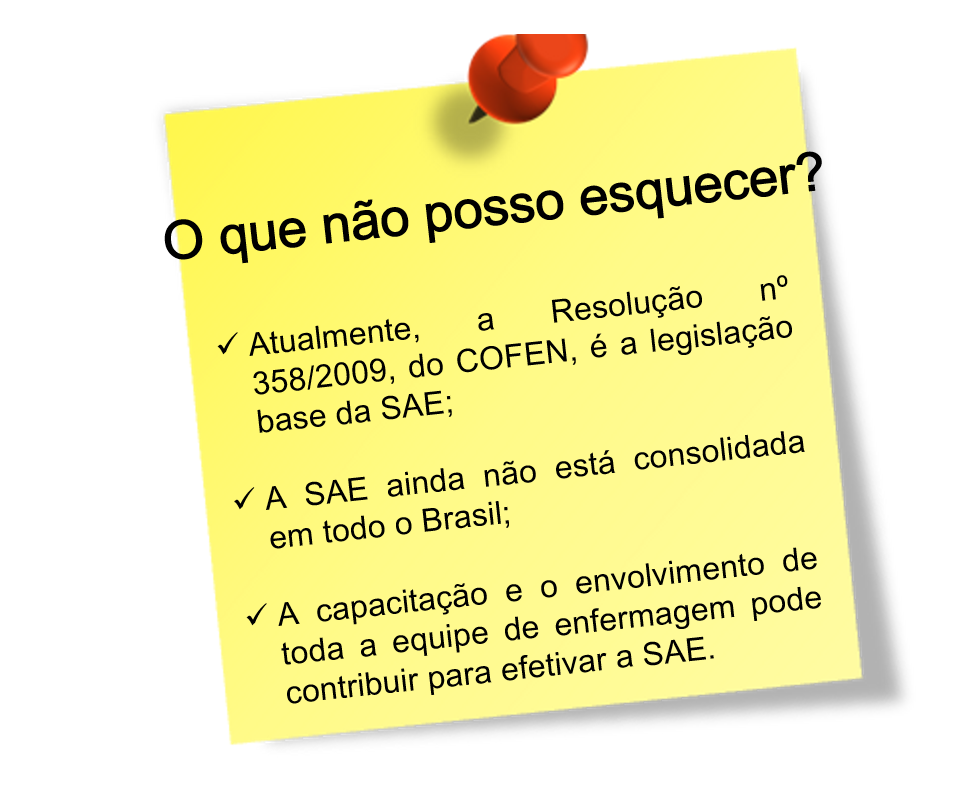
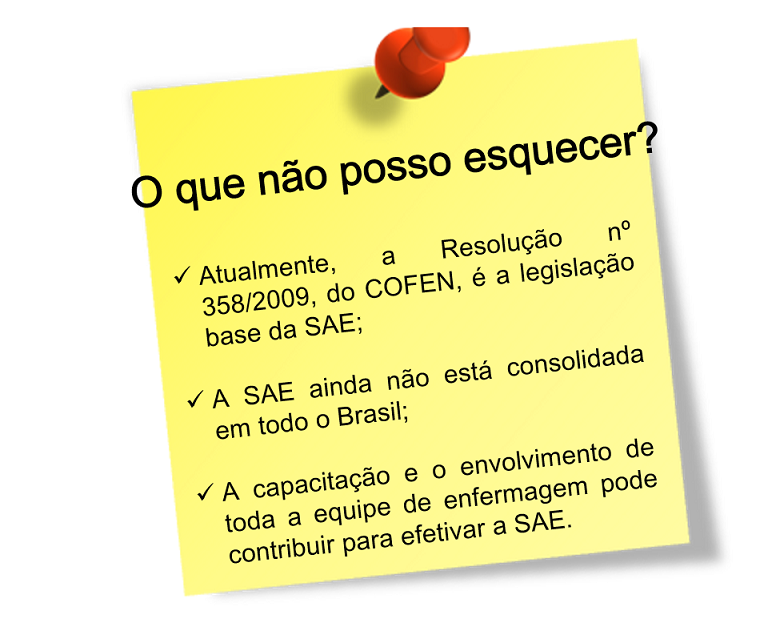
ultima versao

diff --git a/eticolegais.html b/eticolegais.html
@@ -56,7 +56,7 @@
 				<iframe width="560" height="315" src="https://www.youtube.com/embed/pp7jMDXRe2Q" frameborder="0" allowfullscreen></iframe></p>
 			</br>
 			
-			<p>Conseguiu identificar? Pois é, a SAE é reconhecida atualmente como o principal método para alcançarmos a enfermagem profissional.Conseguiu identificar? Pois é, a SAE é reconhecida atualmente como o principal método para alcançarmos a enfermagem profissional. </p>
+			<p>Conseguiu identificar? Pois é, a SAE é reconhecida atualmente como o principal método para alcançarmos a enfermagem profissional.</p>
 			<p>No contexto brasileiro, podemos referenciar alguns marcos fundamentais que contribuíram na luta para a defesa e efetivação da enfermagem enquanto ciência do cuidar, o que, vale ressaltar, constitui um processo ainda presente nos dias atuais, em que se busca, cada vez mais, subsídios que afirmem a teoria na prática cotidiana dos seus profissionais.</p>
 			<p>Inicialmente, a precursora dessa discussão no panorama brasileiro foi Wanda Aguiar Horta, na segunda metade dos anos de 1960, sendo ela a primeira enfermeira brasileira a falar de teoria no campo profissional. </p>
 			<p style="text-align:center"><a href="http://www.here.abennacional.org.br/here/n3vol2artigo1.pdf"><img style="width:700px;" src="img/lei1.png" /></a><p>
@@ -69,14 +69,14 @@
 			<p> Em 2009, o COFEN desenvolveu a Resolução nº 358, reafirmando o processo de enfermagem (PE) – discutiremos ainda a diferença entre SAE e PE – como um meio de evidenciar a contribuição da enfermagem na atenção à saúde da população, aumentando, assim, o reconhecimento profissional do enfermeiro<sup>(6)</sup>.</p>
 			<p>A Resolução nº 358 substitui a anterior e aponta, ainda, a participação do Técnico de Enfermagem na SAE, profissional que, até então, não havia sido citado diretamente nas legislações brasileiras como componente fundamental na operacionalização da SAE.		</p>
 			<p>Vamos conferir, então, um resumo das principais legislações nacionais que embasam a SAE:		</p>
-				<a href="http://www.cofen.gov.br/lei-n-749886-de-25-de-junho-de-1986_4161.html"><img src="img/lei2.png"/></a>
-				<a href="http://www.cofen.gov.br/resoluo-cofen-2722002-revogada-pela-resoluao-cofen-n-3582009_4309.html"><img src="img/lei3.png" "150px" /></a>
-				<a href="http://www.cofen.gov.br/resoluo-cofen-3582009_4384.html"><img src="img/lei4.png"  /></a>
+				<a href="http://www.cofen.gov.br/lei-n-749886-de-25-de-junho-de-1986_4161.html"><img src="img/lei2.PNG"/></a>
+				<a href="http://www.cofen.gov.br/resoluo-cofen-2722002-revogada-pela-resoluao-cofen-n-3582009_4309.html"><img src="img/lei3.PNG" "150px" /></a>
+				<a href="http://www.cofen.gov.br/resoluo-cofen-3582009_4384.html"><img src="img/lei4.PNG"  /></a>
 			
 			<p>De maneira geral, pode-se constatar que o empenho pela consolidação da enfermagem enquanto profissão de base científica vem se intensificando no decorrer da história brasileira, notadamente com a defesa de que a SAE se constitui uma estratégia ímpar para a consecução dessa premissa.	</p>
 			<p>Essa luta é decorrente de trabalhos intensos tanto do Conselho Federal de Enfermagem quanto da Associação Brasileira de Enfermagem (ABEn), que desde a sua criação está comprometida com a educação e a assistência de enfermagem.</p>
 			<p>Todavia, mesmo diante das incontestáveis vantagens trazidas pela adoção da SAE, a literatura é unânime em afirmar que sua implementação ainda se caracteriza como um desafio, destacando-se como dificuldades a serem superadas<sup>(7-15)</sup>:</p>
-			<p style="text-align:center"><img src="img/lei5.png" width="700px"  /></p>
+			<p style="text-align:center"><img src="img/lei5.PNG" width="700px"  /></p>
 			
 			<p>Além disso, merecem destaque os conflitos de conhecimento ainda vivenciados pelos profissionais de enfermagem, fragmentando assim as etapas componentes do PE e, muitas vezes, entendendo ser o registro das ações realizadas sinônimo de SAE. 		</p>
 			<img src="img/registroenfermagem.png" />

diff --git a/operacionalizacao.html b/operacionalizacao.html
@@ -39,9 +39,9 @@
 		</div>
 	
 		<div class="scroll">
-		
+		<p style="padding-left:40px;">Objetivo de aprendizagem: Apreender  a diferença entre os conceitos de SAE e de Processo de Enfermagem.</p>
 		<div class="texto">
-			<p>Objetivo de aprendizagem: Apreender  a diferença entre os conceitos de SAE e de Processo de Enfermagem.</p>
+			
 			</br>
 			<h2>Qual a diferença entre SAE e Processo de Enfermagem?</h2>
 			<h2>E como a SAE pode ser operacionalizada? </h2>
@@ -51,7 +51,7 @@
 			<p>Simplificando, o PE constitui-se num instrumento prático de efetivação dos objetivos da SAE, sendo didaticamente referido na literatura por meio de etapas componentes, dinâmicas e interdependentes, as quais aparecem na literatura especializada de maneiras diversas, quanto ao número e à sua organização.</p>
 			<p>O Conselho Federal de Enfermagem (COFEN), por exemplo, traz em sua Resolução nº 358 o PE composto por cinco etapas fundamentais, quais sejam: o histórico (ou coleta de dados), o diagnóstico, o planejamento, a implementação e a avaliação de enfermagem.</p>
 			<p>Reconhece-se, todavia, o caráter cíclico das etapas do PE, sendo que cada uma fica na dependência da exatidão da anterior, para que o processo seja desenvolvido com eficácia e resolutividade<sup>(1)</sup>.</p>
-				<img style="width:680px;" src="img/op1.png" />
+				<img style="width:680px;" src="img/op1.PNG" />
 			<p>Tudo aquilo que visa organizar a assistência de enfermagem, em busca de um processo de trabalho que funcione em sistema, integra a SAE. Vejamos alguns exemplos!</p>
 			</br>
 				<img style="width:700px"src="img/figuraopera3.png" />
@@ -59,7 +59,7 @@
 			</br>
 
 			<p>Ou seja, o PE faz parte dos meios de operacionalizar a SAE, mas não é o único! </p>
-				<img src="img/postIt3.png" />
+				<img src="img/postIt3.PNG" />
 				
 		</div>
 		
@@ -80,7 +80,7 @@
 			<div class="texto">
 			<h2>Que tal refletir um pouco sobre a diferença entre SAE e PE?</h2>
 			<h2> A proposta é que você construa uma nuvem de palavras que destaque o seu aprendizado sobre esses elementos. </h2>
-			<img style="width:500px" src="img/nuvemtag.png" />
+			<img style="width:500px" src="img/nuvemtag.PNG" />
 			
 			<p>Muito provavelmente você já viu uma nuvem de palavras, mas você sabe como podem ser utilizadas? Já construiu uma?</p>
 			<p>Na internet encontramos alguns sites que funcionam como ferramentas para a criação de nuvem de palavras. A maioria deles funciona da mesma forma: colocamos o texto na caixa, selecionamos algumas opções e temos uma nuvem de palavras. </p>

diff --git a/processoenf.html b/processoenf.html
@@ -39,10 +39,11 @@
 		</div>
 		
 		<div class="scroll">
+		<p style="padding-left:40px;"> Objetivo de aprendizagem: Apreender as fases do Processo de Enfermagem e a importância da participação do técnico de enfermagem na SAE. </p>
 		
 			<div class="texto">
 		
-				<p>Objetivo de aprendizagem: Apreender as fases do Processo de Enfermagem e a importância da participação do técnico de enfermagem na SAE. </p>
+				
 				</br>
 				
 				<h2>Quais são as etapas componentes do Processo de Enfermagem?</h2>
@@ -142,7 +143,7 @@
 					<p>Contém registros de observações e condutas assistenciais realizadas por todos os profissionais, de modo a permitir uma visão do estado geral do paciente e favorecer a continuidade e qualidade da atenção à saúde. </p>
 					<p>Nesse sentido, a organização e a efetivação dos registros trazem inúmeros benefícios: </p>
 					</br>
-						<img src="img/img10.png" /> 
+						<img src="img/img12.PNG" /> 
 					</br>
 					</br>
 					
@@ -158,7 +159,7 @@
 					</br>	
 					<p>Logo, fica claro que traçar o histórico, os diagnósticos e o plano de cuidados são atividades privativas do enfermeiro. Todavia, é importante lembrar o que nos diz a Lei do Exercício Profissional da Enfermagem brasileira: </p> 
 					</br>
-						<img src="img/art12.png" /> 
+						<img src="img/art12.PNG" /> 
 					</br>
 					</br>
 					<p>Fica claro, então, que a SAE e, em específico, o PE, necessita do trabalho sistemático de toda a equipe de enfermagem! </p>

diff --git a/paginainicial.html b/paginainicial.html
@@ -42,7 +42,7 @@
 		<div class="texto">
 		
 		
-			<p style="text-align:center;">Seja bem-vindo! </p>
+			<p style="text-align:center;padding-left:0px;">Seja bem-vindo! </p>
 			<p>Clique no ícone APRESENTAÇÃO para saber como o Objeto Virtual está estruturado e no botão CRÉDITOS para conhecer a equipe que construiu este material educativo.</p>
 			<p style="text-align:center;">Após, isso que tal iniciarmos o nosso estudo?</p>
 		</div>

diff --git a/sae.html b/sae.html
@@ -40,9 +40,10 @@
 		
 		
 	<div class="scroll">
+	<p style="padding-left:40px;"> Objetivo de aprendizagem: Compreender o conceito e a importância da Sistematização da Assistência de Enfermagem.</p>
 		
 		<div class="texto">
-			<p> Objetivo de aprendizagem: Compreender o conceito e a importância da Sistematização da Assistência de Enfermagem.</p>
+			
 			</br>
 			
 			<h2>Sistematizar: que palavra é essa? </h2>
